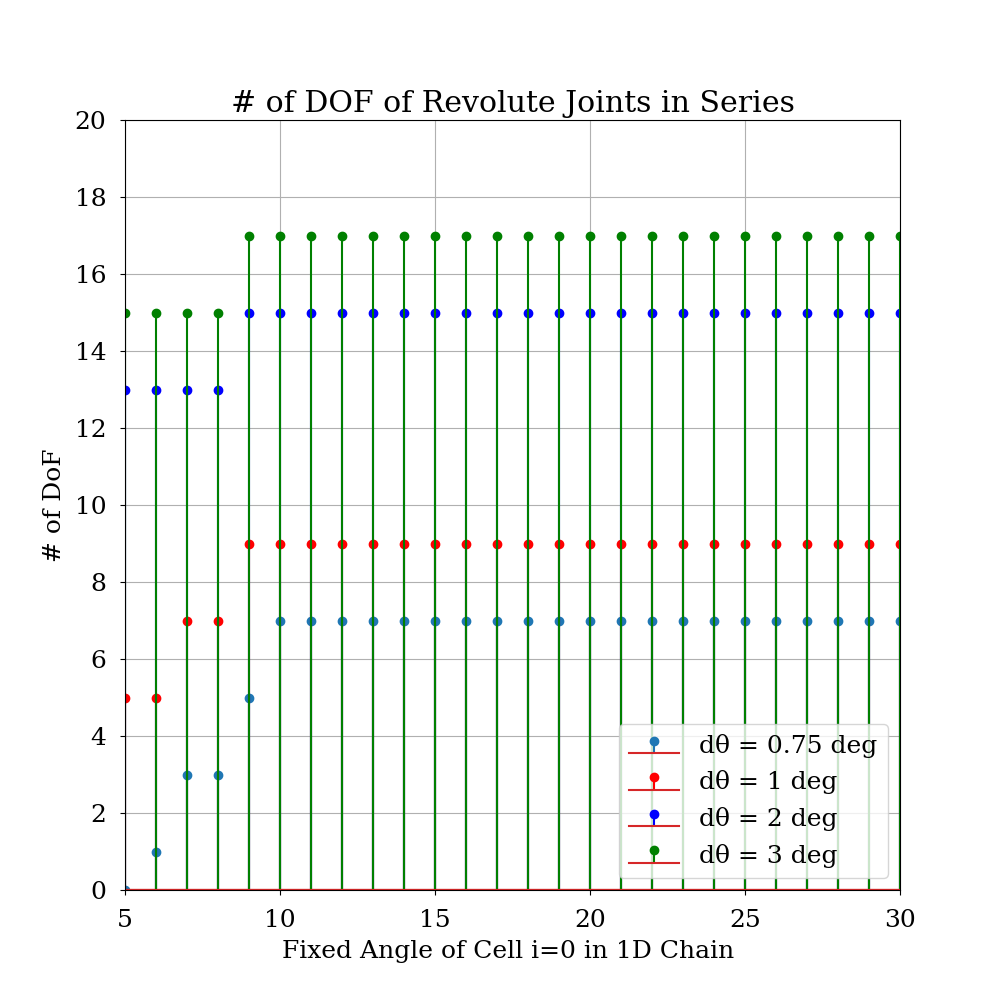
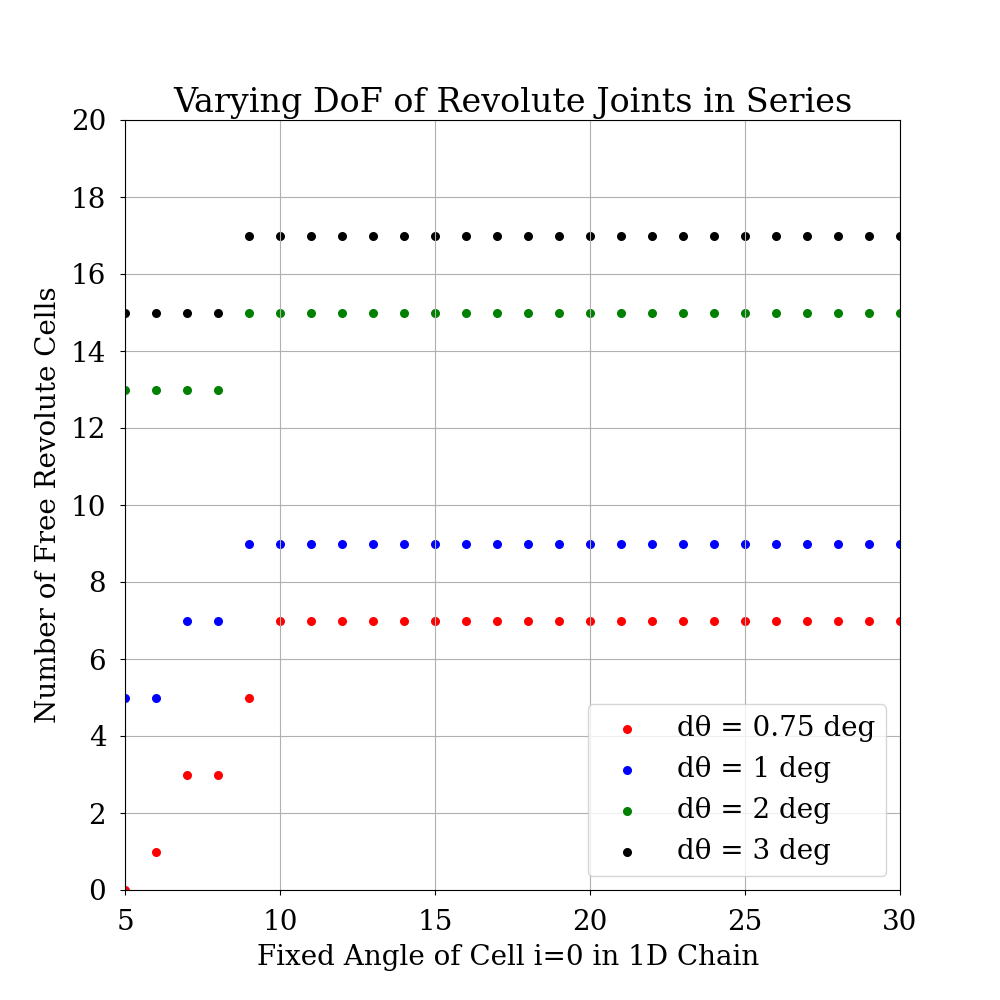
contour plot

diff --git a/main_1D_dofs.py b/main_1D_dofs.py
@@ -3,17 +3,20 @@
 from numpy import genfromtxt
 import numpy as np
 import matplotlib
+import matplotlib as mpl
 import matplotlib.pyplot as plt
 import csv
-from matplotlib.ticker import MaxNLocator
+import itertools
 import ast
+from matplotlib.ticker import MaxNLocator
+import matplotlib.ticker as mticker
 
 # grabs closest number in myList to myNumber
 # min(myList, key=lambda x:abs(x-myNumber))
 
 
 font = {'family': 'serif',
-        'size': 18}
+        'size': 14}
 csfont = {'fontname': 'Helvetica'}
 
 matplotlib.rc('font', **font)
@@ -129,7 +132,7 @@ def plot_chain(x, y, top_angle_list, bottom_angle_list):
 
 def dual_relu(x, b):
     """ReLU returns 1 if x>0, else 0."""
-    dual_relu = np.maximum(0, x-b) + np.minimum(0, x+b)
+    dual_relu = np.maximum(0, x - b) + np.minimum(0, x + b)
     return dual_relu
 
 
@@ -146,7 +149,7 @@ if __name__ == '__main__':
     fixs_dict = {0: 30, 19: 30}
 
     # change to rerun 1D analysis, don't use when plotting
-    DOF_analysis = True
+    DOF_analysis = False
 
     if DOF_analysis:
         for backlash in b:
@@ -201,10 +204,11 @@ if __name__ == '__main__':
         # collect all modeling data into one
         count = 0
         for DOF_list in dof_result:
-            rows.append([angle_settings, DOF_list,
-                        angle_list[51*(count):51*(count+1)],
-                        backlash_list[51*(count):51*(count+1)],
-                        DO_list[51*(count):51*(count+1)]])
+            rows.append([angle_settings,
+                         DOF_list,
+                         angle_list[51 * (count):51 * (count + 1)],
+                         backlash_list[51 * (count):51 * (count + 1)],
+                         DO_list[51 * (count):51 * (count + 1)]])
             count += 1
 
         data_path = "./data_from_1D_DOF.csv"
@@ -234,19 +238,29 @@ if __name__ == '__main__':
     dof_result_3deg = data[5][1]
     dof_result_3deg = [float(i) for i in dof_result_3deg.strip('][').split(', ')]
 
+    angle_list = data[0][2] + ',' + data[1][2] + ',' + data[2][2] + ',' + data[3][2] + ',' + data[4][2] + ',' + data[5][
+        2]
+    backlash_list = data[0][3] + ',' + data[1][3] + ',' + data[2][3] + ',' + data[3][3] + ',' + data[4][3] + ',' + \
+                    data[5][3]
+    DO_list = data[0][4] + ',' + data[1][4] + ',' + data[2][4] + ',' + data[3][4] + ',' + data[4][4] + ',' + data[5][4]
+    angle_list = [float(i) for i in angle_list.replace('[', '').replace(']', '').split(',')]
+    backlash_list = [float(i) for i in backlash_list.replace('[', '').replace(']', '').split(',')]
+    DO_list = [float(i) for i in DO_list.replace('[', '').replace(']', '').split(',')]
+
     angle_settings = list(np.linspace(5, 55, 51))
 
+    colors = itertools.cycle(["r", "b", "g", "k"])
     # DOF result figures
     fig = plt.figure(4, figsize=(10, 10))
     ax = fig.add_subplot()
-    plt.stem(angle_settings, dof_result_0p75deg, 'o', label="dθ = 0.75 deg")
-    plt.stem(angle_settings, dof_result_1deg, 'r', label="dθ = 1 deg")
-    plt.stem(angle_settings, dof_result_2deg, 'b', label="dθ = 2 deg")
-    plt.stem(angle_settings, dof_result_3deg, 'g', label="dθ = 3 deg")
-    plt.title("# of DOF of Revolute Joints in Series")
+    plt.scatter(angle_settings, dof_result_0p75deg, s=30, color=next(colors), label="dθ = 0.75 deg")
+    plt.scatter(angle_settings, dof_result_1deg, s=30, color=next(colors), label="dθ = 1 deg")
+    plt.scatter(angle_settings, dof_result_2deg, s=30, color=next(colors), label="dθ = 2 deg")
+    plt.scatter(angle_settings, dof_result_3deg, s=30, color=next(colors), label="dθ = 3 deg")
+    plt.title("Varying DoF of Revolute Joints in Series")
     plt.xlabel("Fixed Angle of Cell i=0 in 1D Chain ")
-    plt.ylabel("# of DoF")
-    ax.yaxis.set_major_locator(MaxNLocator(integer=True)) # Force matplotlib to only use integers on axis markings
+    plt.ylabel("Number of Free Revolute Cells")
+    ax.yaxis.set_major_locator(MaxNLocator(integer=True))  # Force matplotlib to only use integers on axis markings
     plt.xlim([5, 30])
     plt.ylim((0, 20))
     ax.xaxis.labelpad = 6
@@ -254,30 +268,50 @@ if __name__ == '__main__':
     plt.legend()
     ax.tick_params(axis='both', which='major', pad=10)
     plt.grid()
-    plt.savefig("dof_to_angle_relation 1 Ls.png")
+    plt.savefig("dof_to_fixed_cell_angle_relation.png")
 
-    # fig = plt.figure(figsize=(8, 8))
-    # ax = fig.add_subplot()
-    # # for pcolormesh --> , shading='flat', vmin=DO_list.min(), vmax=DO_list.max()
-    # sc = ax.pcolormesh(angle_list, backlash_list, DO_list)
-    # # z_for_plot = np.array([[i*i + j*j for j in backlash_list for i in angle_list]])
-    # ax.set_title("Max DO Distance - Varying Backlash and Driven Angle")
-    # ax.set_xlabel('Driven cell angle')
-    # ax.set_ylabel('dθ [degrees]')
-    # ax.xaxis.labelpad = 6
-    # ax.yaxis.labelpad = 6
-    # ax.tick_params(axis='both', which='major', pad=10)
-    # # plt.colorbar(sc, label="DO Distance")
-    # plt.savefig("./figures/DO_mapping_to_b_and_angle.png")
-    # plt.show()
-    # plt.close()
+    fig = plt.figure(figsize=(8, 8))
+    ax = fig.add_subplot()
+    # for pcolormesh --> , shading='flat', vmin=DO_list.min(), vmax=DO_list.max()
+    sc = ax.scatter(angle_list, backlash_list, c=DO_list)
+    # z_for_plot = np.array([[i*i + j*j for j in backlash_list for i in angle_list]])
+    ax.set_title("Max DO Distance - Varying Backlash and Driven Angle")
+    ax.set_xlabel('Fixed Angle of Cell i=0')
+    ax.set_ylabel(r"$\Delta \Theta_i$")
+    ax.xaxis.labelpad = 6
+    ax.yaxis.labelpad = 6
+    ax.tick_params(axis='both', which='major', pad=10)
+    plt.colorbar(sc, label="DO Distance")
+    plt.savefig("./figures/DO_mapping_to_b_and_angle.png")
+    plt.close()
+
+    # alternative contour plot
+    fig = plt.figure(figsize=(8, 8))
+    ax = fig.add_subplot()
+    sc = plt.tricontourf(angle_list, backlash_list, DO_list)
+    ax.set_title("Max DO Distance - Varying Backlash and Driven Angle", pad=30)
+    ax.set_xlabel('Fixed Angle of Cell i=0')
+    ax.set_ylabel(r"$\Delta \Theta_i$")
+    ax.xaxis.labelpad = 6
+    ax.yaxis.labelpad = 6
+    ax.tick_params(axis='both', which='major', pad=10)
+    cbar = plt.colorbar(sc,
+                        ticks=[0, 2, 4, 6, 8, 10, 12, 14, 16],
+                        extend='both',
+                        label="Maximum Die-Off Distance in 1D Chain"
+                        )
+    # plt.colorbar(sc, label="DO Distance")
+    plt.savefig("./figures/DO_mapping_to_b_and_angle_contour.png")
+    plt.close()
+
+    quit()
 
     fig = plt.figure(figsize=(8, 8))
     ax = fig.add_subplot()
     sc = ax.scatter(angle_list, backlash_list, c=dDO_dx[1])
-    ax.set_title("dDO/dx for b and drive angle")
-    ax.set_xlabel('Driven cell angle')
-    ax.set_ylabel('Normalized Backlash [n.d.]')
+    ax.set_title("dDO/dx for b and drive angle", pad=30)
+    ax.set_xlabel('Fixed Angle of Cell i=0')
+    ax.set_ylabel(r"$\Delta \Theta_i$")
     ax.xaxis.labelpad = 6
     ax.yaxis.labelpad = 6
     ax.tick_params(axis='both', which='major', pad=10)
@@ -305,23 +339,22 @@ if __name__ == '__main__':
     plt.savefig("./figures/ReLU_demo_figure.png")
     plt.close()
 
-
     # example
-    # fig = plt.figure(5, figsize=(10, 10))
-    # ax = fig.add_subplot()
-    # y1 = np.polyfit(angle_settings, [(9-i)/9 for i in dof_result[0]], 3)
-    # y2 = np.polyfit(angle_settings, [(9-i)/9 for i in dof_result[1]], 3)
-    # y3 = np.polyfit(angle_settings, [(9-i)/9 for i in dof_result[2]], 3)
-    # plt.plot(angle_settings, y1, 'r', label="dθ = 1 deg")
-    # plt.plot(angle_settings, y2, 'b', label="dθ = 2 deg")
-    # plt.plot(angle_settings, y3, 'g', label="dθ = 3 deg")
-    # plt.title("Effect on Range for Joints in Series")
-    # plt.xlabel("Distance from i=0")
-    # plt.ylabel("Range of Motion Remaining")
-    # ax.xaxis.labelpad = 10
-    # ax.yaxis.labelpad = 10
-    # plt.legend()
-    # plt.xlim([0,30])
-    # ax.tick_params(axis='both', which='major', pad=10)
-    # plt.grid()
-    # plt.savefig("dof_to_angle die off.png")
+    fig = plt.figure(5, figsize=(10, 10))
+    ax = fig.add_subplot()
+    y1 = np.polyfit(angle_settings, [(9 - i) / 9 for i in dof_result[0]], 3)
+    y2 = np.polyfit(angle_settings, [(9 - i) / 9 for i in dof_result[1]], 3)
+    y3 = np.polyfit(angle_settings, [(9 - i) / 9 for i in dof_result[2]], 3)
+    plt.plot(angle_settings, y1, 'r', label="dθ = 1 deg")
+    plt.plot(angle_settings, y2, 'b', label="dθ = 2 deg")
+    plt.plot(angle_settings, y3, 'g', label="dθ = 3 deg")
+    plt.title("Effect on Range for Joints in Series")
+    plt.xlabel(r"Cell Index $i$")
+    plt.ylabel("Range of Motion Remaining")
+    ax.xaxis.labelpad = 10
+    ax.yaxis.labelpad = 10
+    plt.legend()
+    plt.xlim([0, 30])
+    ax.tick_params(axis='both', which='major', pad=10)
+    plt.grid()
+    plt.savefig("dof_to_angle die off.png")
